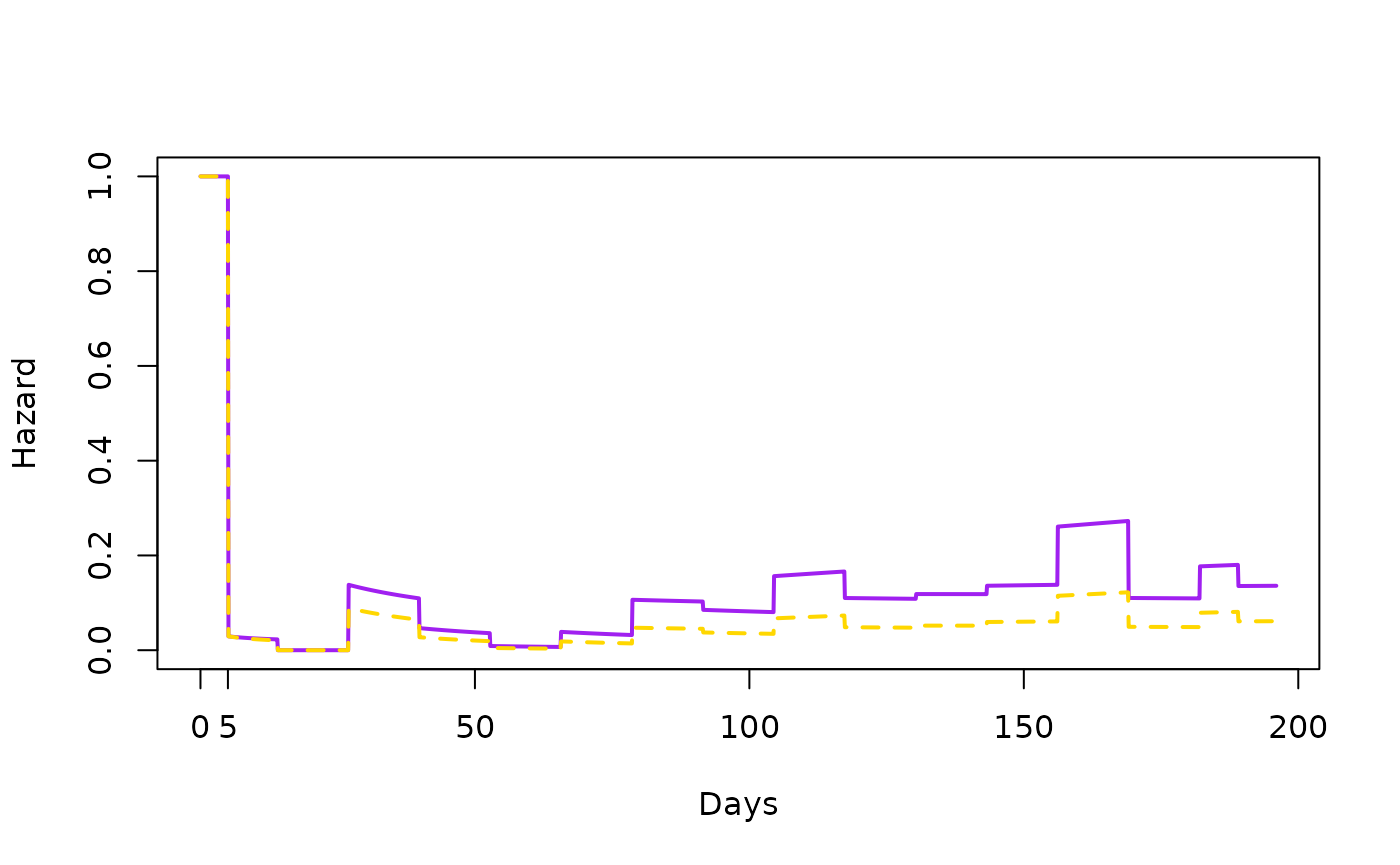
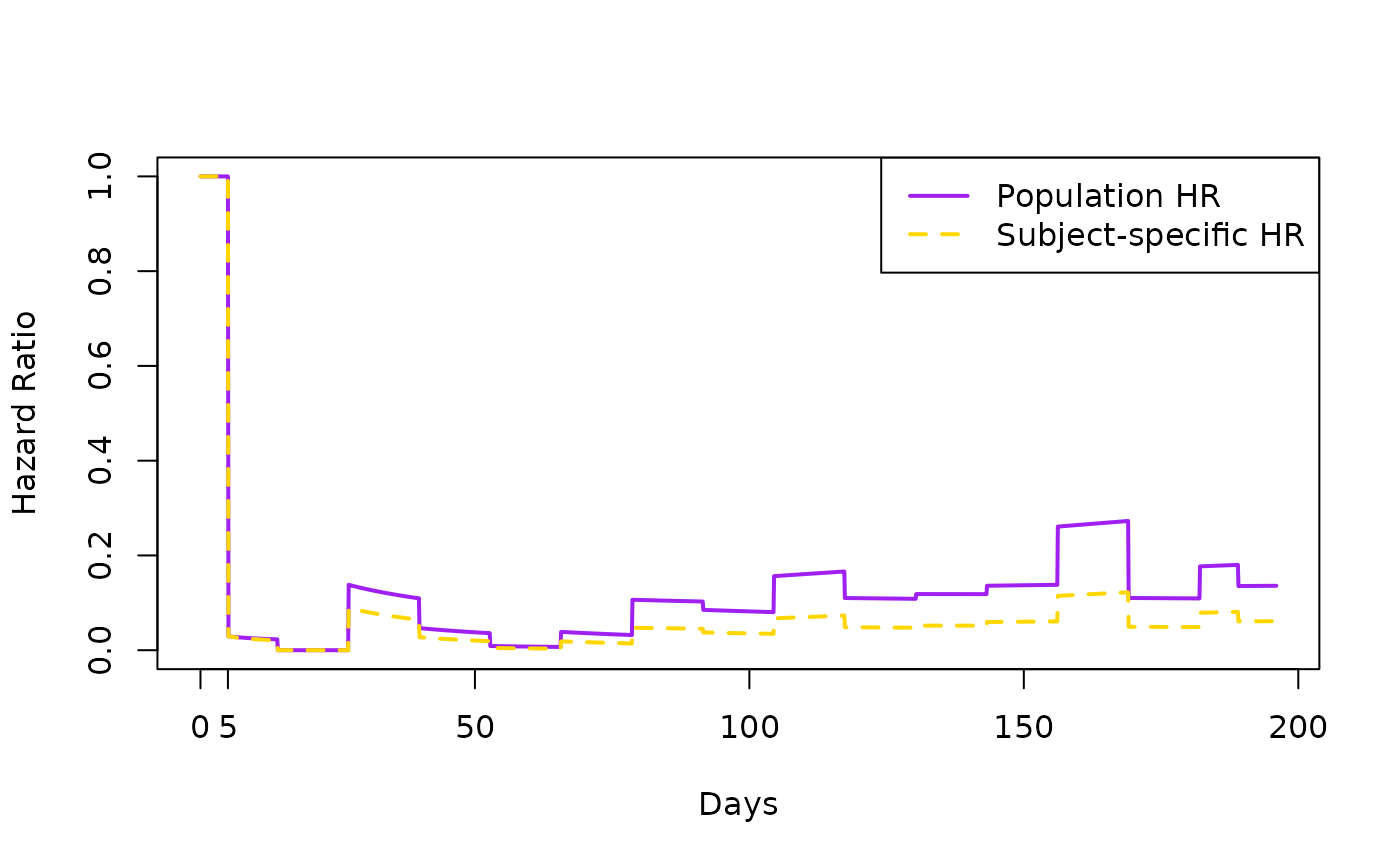
Deploying to gh-pages from @ swihart/mpw@6fd7b6e963b32d2d4dd166283ade926316c72995 🚀

diff --git a/articles/alpha.html b/articles/alpha.html
@@ -252,7 +252,8 @@ adjust the time input so that the first element is just above 0.</p>
 <span>                          h_parm <span class="op">=</span> <span class="va">H_PARM</span>,</span>
 <span>                         frailty <span class="op">=</span> <span class="va">FRAILTY</span><span class="op">)</span></span>
 <span></span>
-<span><span class="fu"><a href="https://rdrr.io/r/graphics/plot.default.html" class="external-link">plot</a></span>  <span class="op">(</span><span class="va">time.haz</span>, <span class="va">vacc.haz</span><span class="op">/</span><span class="va">plac.haz</span>, type<span class="op">=</span><span class="st">"l"</span>, col<span class="op">=</span><span class="st">"purple"</span>, xlab<span class="op">=</span><span class="st">"Days"</span>, ylab<span class="op">=</span><span class="st">"Hazard"</span>, lwd<span class="op">=</span><span class="fl">2</span><span class="op">)</span></span>
+<span><span class="fu"><a href="https://rdrr.io/r/graphics/plot.default.html" class="external-link">plot</a></span>  <span class="op">(</span><span class="va">time.haz</span>, <span class="va">vacc.haz</span><span class="op">/</span><span class="va">plac.haz</span>, type<span class="op">=</span><span class="st">"l"</span>, col<span class="op">=</span><span class="st">"purple"</span>, xlab<span class="op">=</span><span class="st">"Days"</span>,</span>
+<span>       ylab<span class="op">=</span><span class="st">"Hazard Ratio"</span>, lwd<span class="op">=</span><span class="fl">2</span><span class="op">)</span></span>
 <span></span>
 <span><span class="fu"><a href="https://rdrr.io/r/graphics/abline.html" class="external-link">abline</a></span><span class="op">(</span>v<span class="op">=</span><span class="va">tvec.in</span>, lty<span class="op">=</span><span class="fl">2</span>, col<span class="op">=</span><span class="st">"grey"</span><span class="op">)</span></span>
 <span></span>
@@ -284,11 +285,18 @@ vaccine group and dividing them gives the subject-specific hazard ratio
 <span>                              g0 <span class="op">=</span> <span class="va">g0v</span>,</span>
 <span>                       delta_vec <span class="op">=</span> <span class="va">delta_vec_v</span><span class="op">)</span></span>
 <span></span>
-<span><span class="fu"><a href="https://rdrr.io/r/graphics/plot.default.html" class="external-link">plot</a></span>  <span class="op">(</span><span class="va">time.haz</span>, <span class="va">vacc.haz</span><span class="op">/</span><span class="va">plac.haz</span>, type<span class="op">=</span><span class="st">"l"</span>, col<span class="op">=</span><span class="st">"purple"</span>, xlab<span class="op">=</span><span class="st">"Days"</span>, ylab<span class="op">=</span><span class="st">"Hazard"</span>, lwd<span class="op">=</span><span class="fl">2</span><span class="op">)</span></span>
+<span><span class="fu"><a href="https://rdrr.io/r/graphics/plot.default.html" class="external-link">plot</a></span>  <span class="op">(</span><span class="va">time.haz</span>, <span class="va">vacc.haz</span><span class="op">/</span><span class="va">plac.haz</span>, type<span class="op">=</span><span class="st">"l"</span>, col<span class="op">=</span><span class="st">"purple"</span>, xlab<span class="op">=</span><span class="st">"Days"</span>,</span>
+<span>       ylab<span class="op">=</span><span class="st">"Hazard Ratio"</span>, lwd<span class="op">=</span><span class="fl">2</span><span class="op">)</span></span>
 <span></span>
 <span><span class="fu"><a href="https://rdrr.io/r/graphics/axis.html" class="external-link">axis</a></span><span class="op">(</span><span class="fl">1</span>, at<span class="op">=</span><span class="fu"><a href="https://rdrr.io/r/base/c.html" class="external-link">c</a></span><span class="op">(</span><span class="va">tvec.in</span><span class="op">[</span><span class="fl">1</span><span class="op">]</span><span class="op">)</span><span class="op">)</span></span>
 <span></span>
-<span><span class="fu"><a href="https://rdrr.io/r/graphics/lines.html" class="external-link">lines</a></span>  <span class="op">(</span><span class="va">time.haz</span>, <span class="va">vacc.haz.ss</span><span class="op">/</span><span class="va">plac.haz.ss</span>, type<span class="op">=</span><span class="st">"l"</span>, col<span class="op">=</span><span class="st">"gold"</span>, xlab<span class="op">=</span><span class="st">"Days"</span>, ylab<span class="op">=</span><span class="st">"Hazard"</span>, lty<span class="op">=</span><span class="fl">2</span>, lwd<span class="op">=</span><span class="fl">2</span><span class="op">)</span></span></code></pre></div>
+<span><span class="fu"><a href="https://rdrr.io/r/graphics/lines.html" class="external-link">lines</a></span>  <span class="op">(</span><span class="va">time.haz</span>, <span class="va">vacc.haz.ss</span><span class="op">/</span><span class="va">plac.haz.ss</span>, type<span class="op">=</span><span class="st">"l"</span>, col<span class="op">=</span><span class="st">"gold"</span>, xlab<span class="op">=</span><span class="st">"Days"</span>,</span>
+<span>        lwd<span class="op">=</span><span class="fl">2</span>, lty<span class="op">=</span><span class="fl">2</span><span class="op">)</span></span>
+<span><span class="fu"><a href="https://rdrr.io/r/graphics/legend.html" class="external-link">legend</a></span><span class="op">(</span><span class="st">"topright"</span>, <span class="fu"><a href="https://rdrr.io/r/base/c.html" class="external-link">c</a></span><span class="op">(</span><span class="st">"Population HR"</span>, <span class="st">"Subject-specific HR"</span><span class="op">)</span>,</span>
+<span>       col<span class="op">=</span><span class="fu"><a href="https://rdrr.io/r/base/c.html" class="external-link">c</a></span><span class="op">(</span><span class="st">"purple"</span>,<span class="st">"gold"</span><span class="op">)</span>,</span>
+<span>       lty<span class="op">=</span><span class="fu"><a href="https://rdrr.io/r/base/c.html" class="external-link">c</a></span><span class="op">(</span><span class="fl">1</span>,<span class="fl">2</span><span class="op">)</span>,</span>
+<span>       lwd<span class="op">=</span><span class="fl">2</span></span>
+<span><span class="op">)</span></span></code></pre></div>
 <p><img src="alpha_files/figure-html/unnamed-chunk-6-1.png" width="700"></p>
 <p>The plot above shows that for a positive-stable frailty with
 <math display="inline" xmlns="http://www.w3.org/1998/Math/MathML"><semantics><mi>α</mi><annotation encoding="application/x-tex">\alpha</annotation></semantics></math>
@@ -465,7 +473,7 @@ adjust the time input so that the first element is just above 0.</p>
 <span>                          h_parm <span class="op">=</span> <span class="va">H_PARM</span>,</span>
 <span>                         frailty <span class="op">=</span> <span class="va">FRAILTY</span><span class="op">)</span></span>
 <span></span>
-<span><span class="fu"><a href="https://rdrr.io/r/graphics/plot.default.html" class="external-link">plot</a></span>  <span class="op">(</span><span class="va">time.haz</span>, <span class="va">vacc.haz</span><span class="op">/</span><span class="va">plac.haz</span>, type<span class="op">=</span><span class="st">"l"</span>, col<span class="op">=</span><span class="st">"purple"</span>, xlab<span class="op">=</span><span class="st">"Days"</span>, ylab<span class="op">=</span><span class="st">"Hazard"</span>, lwd<span class="op">=</span><span class="fl">2</span><span class="op">)</span></span>
+<span><span class="fu"><a href="https://rdrr.io/r/graphics/plot.default.html" class="external-link">plot</a></span>  <span class="op">(</span><span class="va">time.haz</span>, <span class="va">vacc.haz</span><span class="op">/</span><span class="va">plac.haz</span>, type<span class="op">=</span><span class="st">"l"</span>, col<span class="op">=</span><span class="st">"purple"</span>, xlab<span class="op">=</span><span class="st">"Days"</span>, ylab<span class="op">=</span><span class="st">"Hazard Ratio"</span>, lwd<span class="op">=</span><span class="fl">2</span><span class="op">)</span></span>
 <span></span>
 <span><span class="fu"><a href="https://rdrr.io/r/graphics/abline.html" class="external-link">abline</a></span><span class="op">(</span>v<span class="op">=</span><span class="va">tvec.in</span>, lty<span class="op">=</span><span class="fl">2</span>, col<span class="op">=</span><span class="st">"grey"</span><span class="op">)</span></span>
 <span></span>
@@ -497,11 +505,18 @@ vaccine group and dividing them gives the subject-specific hazard ratio
 <span>                              g0 <span class="op">=</span> <span class="va">g0v</span>,</span>
 <span>                       delta_vec <span class="op">=</span> <span class="va">delta_vec_v</span><span class="op">)</span></span>
 <span></span>
-<span><span class="fu"><a href="https://rdrr.io/r/graphics/plot.default.html" class="external-link">plot</a></span>  <span class="op">(</span><span class="va">time.haz</span>, <span class="va">vacc.haz</span><span class="op">/</span><span class="va">plac.haz</span>, type<span class="op">=</span><span class="st">"l"</span>, col<span class="op">=</span><span class="st">"purple"</span>, xlab<span class="op">=</span><span class="st">"Days"</span>, ylab<span class="op">=</span><span class="st">"Hazard"</span>, lwd<span class="op">=</span><span class="fl">2</span><span class="op">)</span></span>
+<span><span class="fu"><a href="https://rdrr.io/r/graphics/plot.default.html" class="external-link">plot</a></span>  <span class="op">(</span><span class="va">time.haz</span>, <span class="va">vacc.haz</span><span class="op">/</span><span class="va">plac.haz</span>, type<span class="op">=</span><span class="st">"l"</span>, col<span class="op">=</span><span class="st">"purple"</span>, xlab<span class="op">=</span><span class="st">"Days"</span>,</span>
+<span>       ylab<span class="op">=</span><span class="st">"Hazard Ratio"</span>, lwd<span class="op">=</span><span class="fl">2</span><span class="op">)</span></span>
 <span></span>
 <span><span class="fu"><a href="https://rdrr.io/r/graphics/axis.html" class="external-link">axis</a></span><span class="op">(</span><span class="fl">1</span>, at<span class="op">=</span><span class="fu"><a href="https://rdrr.io/r/base/c.html" class="external-link">c</a></span><span class="op">(</span><span class="va">tvec.in</span><span class="op">[</span><span class="fl">1</span><span class="op">]</span><span class="op">)</span><span class="op">)</span></span>
 <span></span>
-<span><span class="fu"><a href="https://rdrr.io/r/graphics/lines.html" class="external-link">lines</a></span>  <span class="op">(</span><span class="va">time.haz</span>, <span class="va">vacc.haz.ss</span><span class="op">/</span><span class="va">plac.haz.ss</span>, type<span class="op">=</span><span class="st">"l"</span>, col<span class="op">=</span><span class="st">"gold"</span>, xlab<span class="op">=</span><span class="st">"Days"</span>, ylab<span class="op">=</span><span class="st">"Hazard"</span>, lty<span class="op">=</span><span class="fl">2</span>, lwd<span class="op">=</span><span class="fl">2</span><span class="op">)</span></span></code></pre></div>
+<span><span class="fu"><a href="https://rdrr.io/r/graphics/lines.html" class="external-link">lines</a></span>  <span class="op">(</span><span class="va">time.haz</span>, <span class="va">vacc.haz.ss</span><span class="op">/</span><span class="va">plac.haz.ss</span>, type<span class="op">=</span><span class="st">"l"</span>, col<span class="op">=</span><span class="st">"gold"</span>, xlab<span class="op">=</span><span class="st">"Days"</span>,</span>
+<span>        lwd<span class="op">=</span><span class="fl">2</span>, lty<span class="op">=</span><span class="fl">2</span><span class="op">)</span></span>
+<span><span class="fu"><a href="https://rdrr.io/r/graphics/legend.html" class="external-link">legend</a></span><span class="op">(</span><span class="st">"topright"</span>, <span class="fu"><a href="https://rdrr.io/r/base/c.html" class="external-link">c</a></span><span class="op">(</span><span class="st">"Population HR"</span>, <span class="st">"Subject-specific HR"</span><span class="op">)</span>,</span>
+<span>       col<span class="op">=</span><span class="fu"><a href="https://rdrr.io/r/base/c.html" class="external-link">c</a></span><span class="op">(</span><span class="st">"purple"</span>,<span class="st">"gold"</span><span class="op">)</span>,</span>
+<span>       lty<span class="op">=</span><span class="fu"><a href="https://rdrr.io/r/base/c.html" class="external-link">c</a></span><span class="op">(</span><span class="fl">1</span>,<span class="fl">2</span><span class="op">)</span>,</span>
+<span>       lwd<span class="op">=</span><span class="fl">2</span></span>
+<span><span class="op">)</span></span></code></pre></div>
 <p><img src="alpha_files/figure-html/unnamed-chunk-11-1.png" width="700"></p>
 <p>The plot above shows that for a positive-stable frailty with
 <math display="inline" xmlns="http://www.w3.org/1998/Math/MathML"><semantics><mi>α</mi><annotation encoding="application/x-tex">\alpha</annotation></semantics></math>
